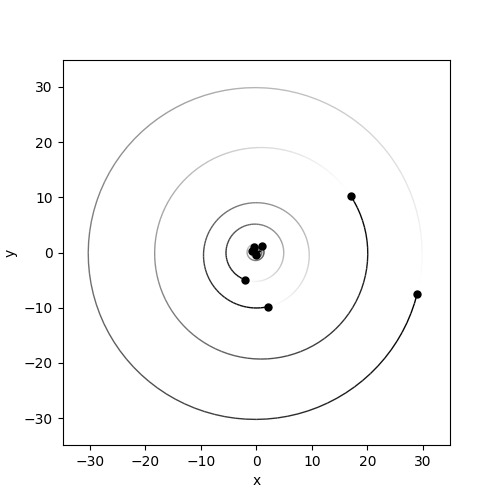
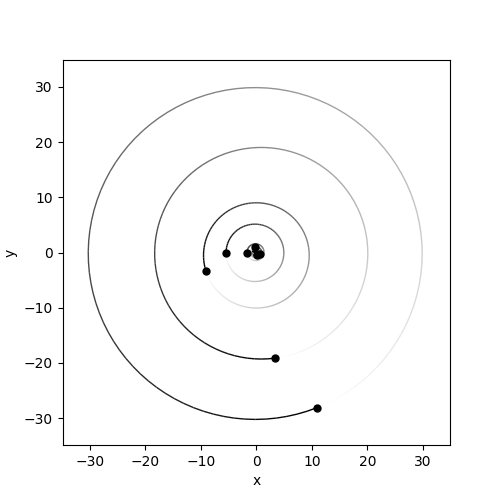
Datum en tijd nu ook mogelijk

diff --git a/circumbinary_jap.py b/circumbinary_jap.py
@@ -3,7 +3,7 @@ import matplotlib.pyplot as plt
 
 sim = rebound.Simulation()
 sim.add(["Sun", "Mercury", "Venus", "Earth", "Mars", "Jupiter", "Saturn",
-         "Uranus", "Neptune"])
+         "Uranus", "Neptune"], date="99999-01-01 06:25")
 
 fig = rebound.OrbitPlot(sim)
 fig.savefig("circumbinary_j.png")
